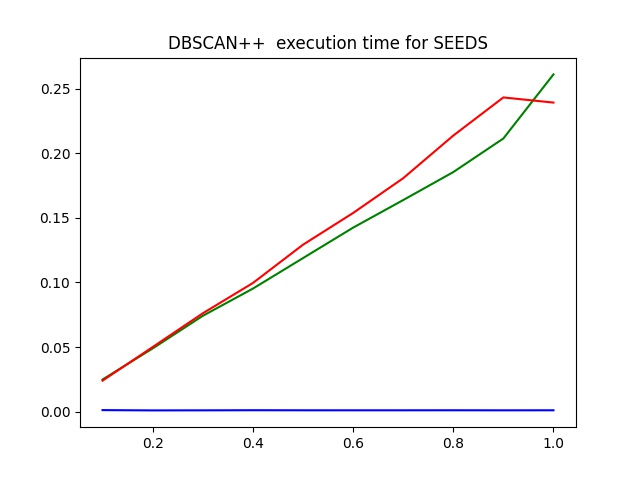
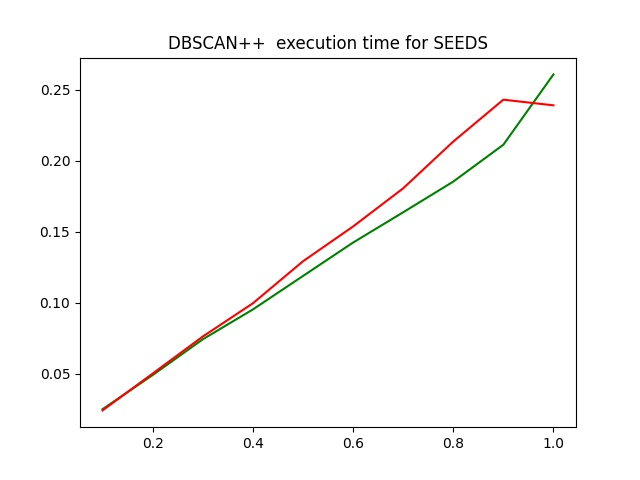
Performance figures

diff --git a/plot_data_factor_variation.py b/plot_data_factor_variation.py
@@ -53,16 +53,16 @@ def main():
         # plt.title('Noise points for ' + str(name.upper()))
         # plt.savefig('Results_small_data_factor/{0}_noise.jpg'.format(name))
 
-        plt.figure()
-        plt.plot(factor, amis_dbp_uni, 'g:')  # dbscan (blue)
-        plt.plot(factor, arand_dbp_uni, 'g--')  # uniform (green)
-        plt.plot(factor, amis_dbp_kg, 'r:')  # dbscan (blue)
-        plt.plot(factor, arand_dbp_kg, 'r--')  # uniform (green)
-        plt.plot(factor, amis_db, 'b:')
-        plt.plot(factor, arand_db, 'b--')
-        # plt.plot(factor, time_dbp_uni, 'r')  # k-center (red)
-        plt.title('DBSCAN++ performance scores for ' + str(name.upper()))
-        plt.savefig('Results_small_data_factor/{0}_perf_score.jpg'.format(name))
+        # plt.figure()
+        # plt.plot(factor, amis_dbp_uni, 'g:')  # dbscan (blue)
+        # plt.plot(factor, arand_dbp_uni, 'g--')  # uniform (green)
+        # plt.plot(factor, amis_dbp_kg, 'r:')  # dbscan (blue)
+        # plt.plot(factor, arand_dbp_kg, 'r--')  # uniform (green)
+        # plt.plot(factor, amis_db, 'b:')
+        # plt.plot(factor, arand_db, 'b--')
+        # # plt.plot(factor, time_dbp_uni, 'r')  # k-center (red)
+        # plt.title('DBSCAN++ performance scores for ' + str(name.upper()))
+        # plt.savefig('Results_small_data_factor/{0}_perf_score.jpg'.format(name))
 
         # plt.figure()
         # plt.plot(factor, amis_dbp_kg, 'b')  # dbscan (blue)
@@ -71,12 +71,12 @@ def main():
         # plt.title('DBSCAN++ K-center performance scores for ' + str(name.upper()))
         # plt.savefig('Results_small_data_factor/{0}_perf_score_kc.jpg'.format(name))
 
-        # plt.figure()
+        plt.figure()
         # plt.plot(factor, time_db, 'b')  # dbscan (blue)
-        # plt.plot(factor, time_dbp_kg, 'g')  # uniform (green)
-        # plt.plot(factor, time_dbp_kg/10, 'r')  # k-center (red)
-        # plt.title('DBSCAN++  execution time for ' + str(name.upper()))
-        # plt.savefig('Results_small_data_factor/{0}_time.jpg'.format(name))
+        plt.plot(factor, time_dbp_uni, 'g')  # uniform (green)
+        plt.plot(factor, time_dbp_kg, 'r')  # k-center (red)
+        plt.title('DBSCAN++  execution time for ' + str(name.upper()))
+        plt.savefig('Results_small_data_factor/{0}_time.jpg'.format(name))
 
 
 
